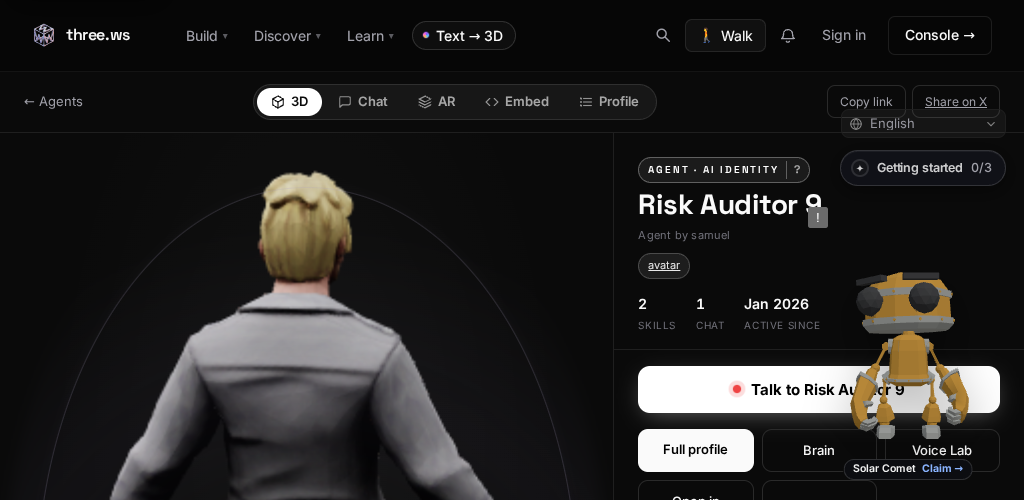
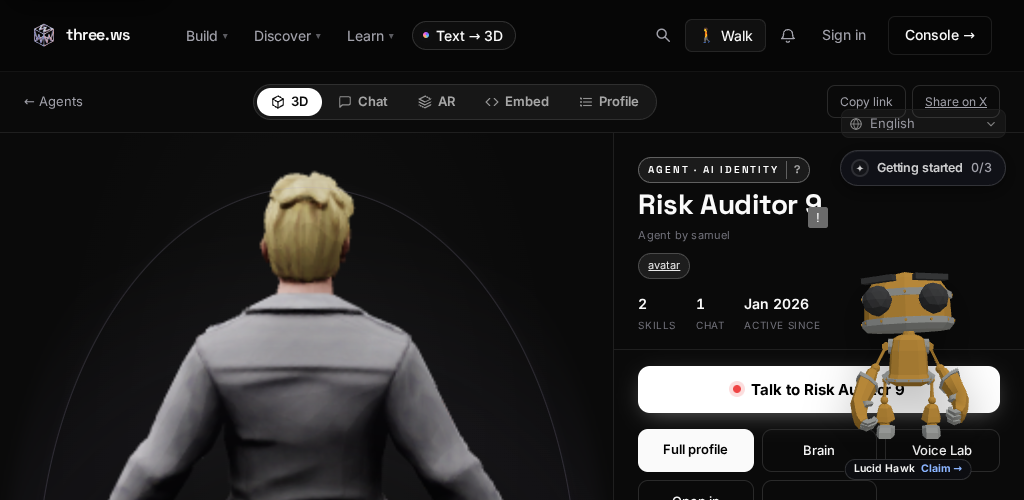
feat(dapp-store): add the 1200x1200 Editor's Choice card and pin the portal's compliance fields
The Publisher Portal's featured carousel wants a square graphic beside a
50-character headline, so make-media.mjs now draws editors-choice.png with
the lockup alone: repeating the headline inside the artwork is what makes
those cards unreadable once the store scales them down. The submission
guide gains the fields the portal asks for and the repo had never written
down: Terms of Use is /legal/tos (not the EULA, which is its own field),
contact and support both go to support@three.ws, languages is English
alone because the listing copy is English however many locales the app UI
speaks, and countries is all.

diff --git a/docs/seeker-submission-day.md b/docs/seeker-submission-day.md
@@ -46,7 +46,22 @@ Paste each value below exactly.
 | Privacy policy | `https://three.ws/legal/privacy` |
 | License / EULA | `https://three.ws/legal/eula` |
 | Copyright | `https://three.ws/legal` |
+| Terms of Use | `https://three.ws/legal/tos` |
+| Contact email | `support@three.ws` |
 | Support email | `support@three.ws` |
+| Languages | `English` |
+| Countries | `All countries` |
+
+The portal asks for **Terms of Use** and **Privacy Policy** under Compliance, and both must be public links: `https://three.ws/legal/tos` and `https://three.ws/legal/privacy`. The EULA and copyright links above are separate fields; do not paste the EULA into the Terms of Use box.
+
+On **Languages**: the app's interface auto-translates into 80+ locales, but this listing's text is English, so select English alone. Adding a language here without listing copy in it is what gets a listing flagged as incomplete.
+
+**Editor's Choice** (optional, the featured carousel on the store home screen). Fill it in: it costs one field and one upload.
+
+| Field | Value |
+|---|---|
+| Headline (50 char max) | `Turn a selfie into a 3D agent on Solana.` |
+| Graphic (1200x1200) | `solana-mobile/publish/media/editors-choice.png` |
 
 **Short description** (one line)
 
@@ -125,13 +140,14 @@ Built for Seeker. Signed by Seed Vault. Seed phrases never leave the secure elem
 No off-chain test accounts are required: auth is wallet-only.
 ```
 
-**Images.** All eight are ready to upload from the repo at `solana-mobile/publish/media/`:
+**Images.** All nine are ready to upload from the repo at `solana-mobile/publish/media/`:
 
 | Upload slot | File |
 |---|---|
 | App icon (512x512) | `icon.png` |
 | Banner (1200x600) | `banner.png` |
 | Feature graphic (1024x500) | `feature.png` |
+| Editor's Choice graphic (1200x1200) | `editors-choice.png` |
 | dApp preview 1 (1080x1920) | `screen-1.png` |
 | dApp preview 2 | `screen-2.png` |
 | dApp preview 3 | `screen-3.png` |
@@ -141,7 +157,7 @@ No off-chain test accounts are required: auth is wallet-only.
 **Upload the five previews in numbered order.** They are one 5400x1920 picture cut into five, with four phones sitting on the creases, so out of order they stop lining up. The portal wants matching dimensions across previews, and all five are 1080x1920 portrait. Open `solana-mobile/publish/media/carousel.png` to see the whole strip at once.
 
 - [ ] Every field above pasted
-- [ ] Three brand images and five previews uploaded, previews in order 1 to 5
+- [ ] Four brand images and five previews uploaded, previews in order 1 to 5
 - [ ] Saved, and the **App NFT minted** (you will approve one wallet transaction)
 
 ---

diff --git a/docs/seeker-publishing.md b/docs/seeker-publishing.md
@@ -79,11 +79,11 @@ Two traps, both observed on 2026-08-28:
 Everything the portal asks for is generated and committed under [solana-mobile/publish/media/](../solana-mobile/publish/media/):
 
 ```bash
-npm run build:dapp-store-media      # icon.png, banner.png, feature.png
+npm run build:dapp-store-media      # icon.png, banner.png, feature.png, editors-choice.png
 npm run build:dapp-store-previews   # screen-1..5.png (the carousel)
 ```
 
-`build:dapp-store-media` writes the 512x512 icon from the shipped app mark, the 1200x600 banner (the wordmark drawn in a browser against the site's own Space Grotesk files, so store type matches product type), and the 1024x500 feature graphic, a live capture of a real agent page.
+`build:dapp-store-media` writes the 512x512 icon from the shipped app mark, the 1200x600 banner (the wordmark drawn in a browser against the site's own Space Grotesk files, so store type matches product type), the 1024x500 feature graphic (a live capture of a real agent page), and the 1200x1200 Editor's Choice card for the store's featured carousel.
 
 `build:dapp-store-previews` builds the five 1080x1920 previews as one 5400x1920 composition and slices it. Four of its nine phones sit exactly on a seam, so each upload carries one whole screen plus the two halves it shares with its neighbours and the strip reads as a single photograph while scrolling. **Upload them in numbered order** or the halves stop lining up. Every phone holds a real capture of three.ws at Seeker resolution; nothing is mocked or drawn to look like product UI.
 

diff --git a/solana-mobile/docs/ASSETS.md b/solana-mobile/docs/ASSETS.md
@@ -5,7 +5,7 @@ Drop these files into `solana-mobile/publish/media/` (referenced from `config.ya
 Every asset here is generated from the repo root:
 
 ```bash
-npm run build:dapp-store-media      # icon.png, banner.png, feature.png
+npm run build:dapp-store-media      # icon.png, banner.png, feature.png, editors-choice.png
 npm run build:dapp-store-previews   # screen-1..5.png
 ```
 
@@ -16,6 +16,7 @@ The icon is the shipped app mark flattened onto the brand ground. The banner is 
 | `icon.png`        | App icon        | 512 × 512       | yes      | Same image as `/public/pwa-512x512.png`; no transparency.        |
 | `banner.png`      | App banner      | 1200 × 600      | yes      | Used in featured rows. Logo + tagline on dark background.        |
 | `feature.png`     | Feature graphic | 1024 × 500      | yes      | Hero image — captured agent in three.ws viewer.                  |
+| `editors-choice.png` | Editor's Choice | 1200 × 1200  | no       | Featured-carousel card. Lockup only: the 50-char headline is a separate portal field, so the artwork must not repeat it. |
 | `screen-1.png`    | dApp preview 1  | 1080 × 1920     | yes      | Seeker home screen. Upload first.                                |
 | `screen-2.png`    | dApp preview 2  | 1080 × 1920     | yes      | Marketplace grid.                                                |
 | `screen-3.png`    | dApp preview 3  | 1080 × 1920     | yes      | Agent page with the 3D viewer.                                   |
